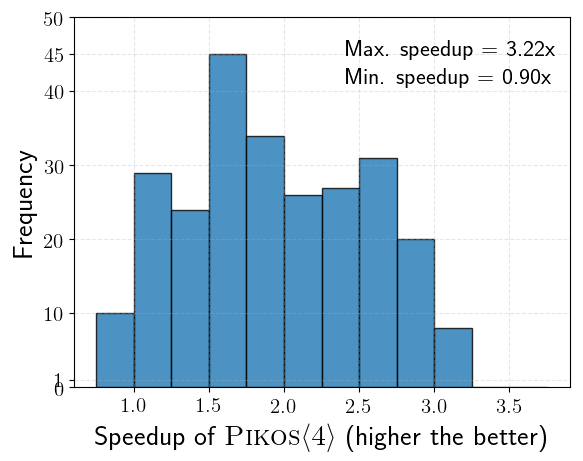
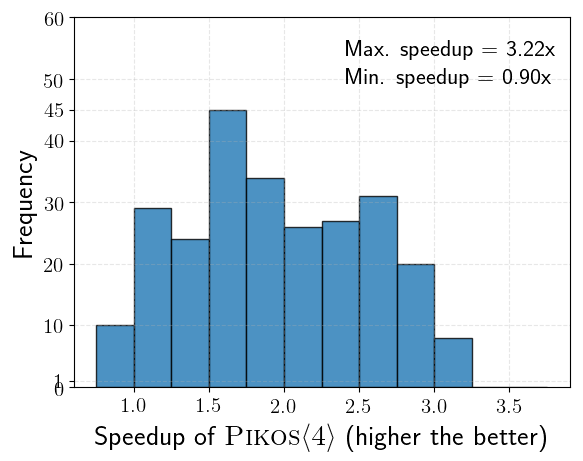
update

diff --git a/generate_fig8.py b/generate_fig8.py
@@ -43,19 +43,21 @@ if __name__ == '__main__':
     print(amean, gmean, hmean)
     
     fig, ax = plt.subplots(nrows=1, ncols=1, figsize=(5, 4), sharey=True)
-    ax.set_xlabel('Number of threads, $k$')
-    ax.set_ylabel(r'Observed speedups of $\textsc{Pikos\textlangle{}k\textrangle{}}$')
+    ax.set_xlabel('Number of threads $k$')
+    ax.set_ylabel(r'Observed speedups of \textsc{Pikos}\textlangle{}$k$\textrangle{}')
     ax.grid(b=True, ls='--', alpha=0.5)
     ax.boxplot(speedups, positions=x, sym='k.')
     ax.scatter(x, amean, marker='.',  c='r', zorder=1000, label="Arithmetic mean")
     ax.scatter(x, gmean, marker='*',  c='g', zorder=1000, label="Geometric mean")
     ax.scatter(x, hmean, marker='x',  c='b', zorder=1000, label="Harmonic mean")
     ax.legend(loc='upper left')
+    ax.set_xticks(x)
+    ax.set_yticks([2,4,6,8])
     plt.savefig('fig8-a.png', bbox_inches='tight')
 
     fig, ax = plt.subplots(nrows=1, ncols=1, figsize=(5, 4), sharey=True)
-    ax.set_xlabel('Number of threads, $k$')
-    ax.set_ylabel(r'Observed speedups of $\textsc{Pikos\textlangle{}k\textrangle{}}$')
+    ax.set_xlabel('Number of threads $k$')
+    ax.set_ylabel(r'Observed speedups of \textsc{Pikos}\textlangle{}$k$\textrangle{}')
     ax.grid(b=True, ls='--', alpha=0.5)
     ax.violinplot(speedups, positions=x, showextrema=True, showmeans=False, showmedians=False, widths=0.8, points=1000)
     ax.scatter(x, amean, marker='.',  c='r', zorder=1000, label="Arithmetic mean")
@@ -63,4 +65,5 @@ if __name__ == '__main__':
     ax.scatter(x, hmean, marker='x',  c='b', zorder=1000, label="Harmonic mean")
     ax.legend(loc='upper left')
     ax.set_xticks(x)
+    ax.set_yticks([2,4,6,8])
     plt.savefig('fig8-b.png', bbox_inches='tight')

diff --git a/generate_fig7.py b/generate_fig7.py
@@ -40,14 +40,19 @@ if __name__ == '__main__':
     
         n, bins, patches = ax.hist(dff[speedup].values, bins=12, range=[0.75,3.75], edgecolor='black', alpha=0.8)
         plt.yticks(list(plt.yticks()[0]) + [1, max(n)])
+        plt.yticks([0, 1, 10, 20, 30, 40, 50, 60, max(n)])
     
         plt.grid(b=True, zorder=0, ls='--', alpha=0.3)
         plt.xlabel(r'Speedup of $\textsc{Pikos\textlangle4\textrangle}$ (higher the better)')
         plt.ylabel(r'Frequency')
     
     
-        plt.text(0.55, 0.95, "Max. speedup = %.2fx\nMin. speedup = %.2fx" % (round(dff[speedup].max(), 2), round(dff[speedup].min(), 2)),
-                transform=ax.transAxes, verticalalignment='top')
+        if i > 1:
+            plt.text(0.05, 0.95, "Max. speedup = %.2fx\nMin. speedup = %.2fx" % (round(dff[speedup].max(), 2), round(dff[speedup].min(), 2)),
+                    transform=ax.transAxes, verticalalignment='top')
+        else:
+            plt.text(0.55, 0.95, "Max. speedup = %.2fx\nMin. speedup = %.2fx" % (round(dff[speedup].max(), 2), round(dff[speedup].min(), 2)),
+                    transform=ax.transAxes, verticalalignment='top')
     
         plt.savefig('fig7-%d.png' % i, bbox_inches='tight')
         plt.clf()

diff --git a/generate_fig9.py b/generate_fig9.py
@@ -49,8 +49,8 @@ if __name__ == '__main__':
     plt.legend(loc='upper left')
     plt.ylim(0,8)
     plt.yticks([0,1,2,4,6,8])
-    plt.xlabel(r'Number of threads, $k$')
-    plt.ylabel(r'Speedup of $\textsc{Pikos\textlangle{}k\textrangle{}}$')
+    plt.xlabel(r'Number of threads $k$')
+    plt.ylabel(r'Speedup of \textsc{Pikos}\textlangle{}$k$\textrangle{}')
     plt.savefig('fig9-a.png', bbox_inches='tight')
 
     plt.clf()
@@ -77,6 +77,7 @@ if __name__ == '__main__':
     plt.plot(x, y, 'k')
 
     plt.xlim(0.0, 1.0)
+    plt.ylim(0,1000)
     plt.xlabel('Scalability coefficient')
     plt.ylabel('Number of benchmarks')
     plt.savefig('fig9-b.png', bbox_inches='tight')
